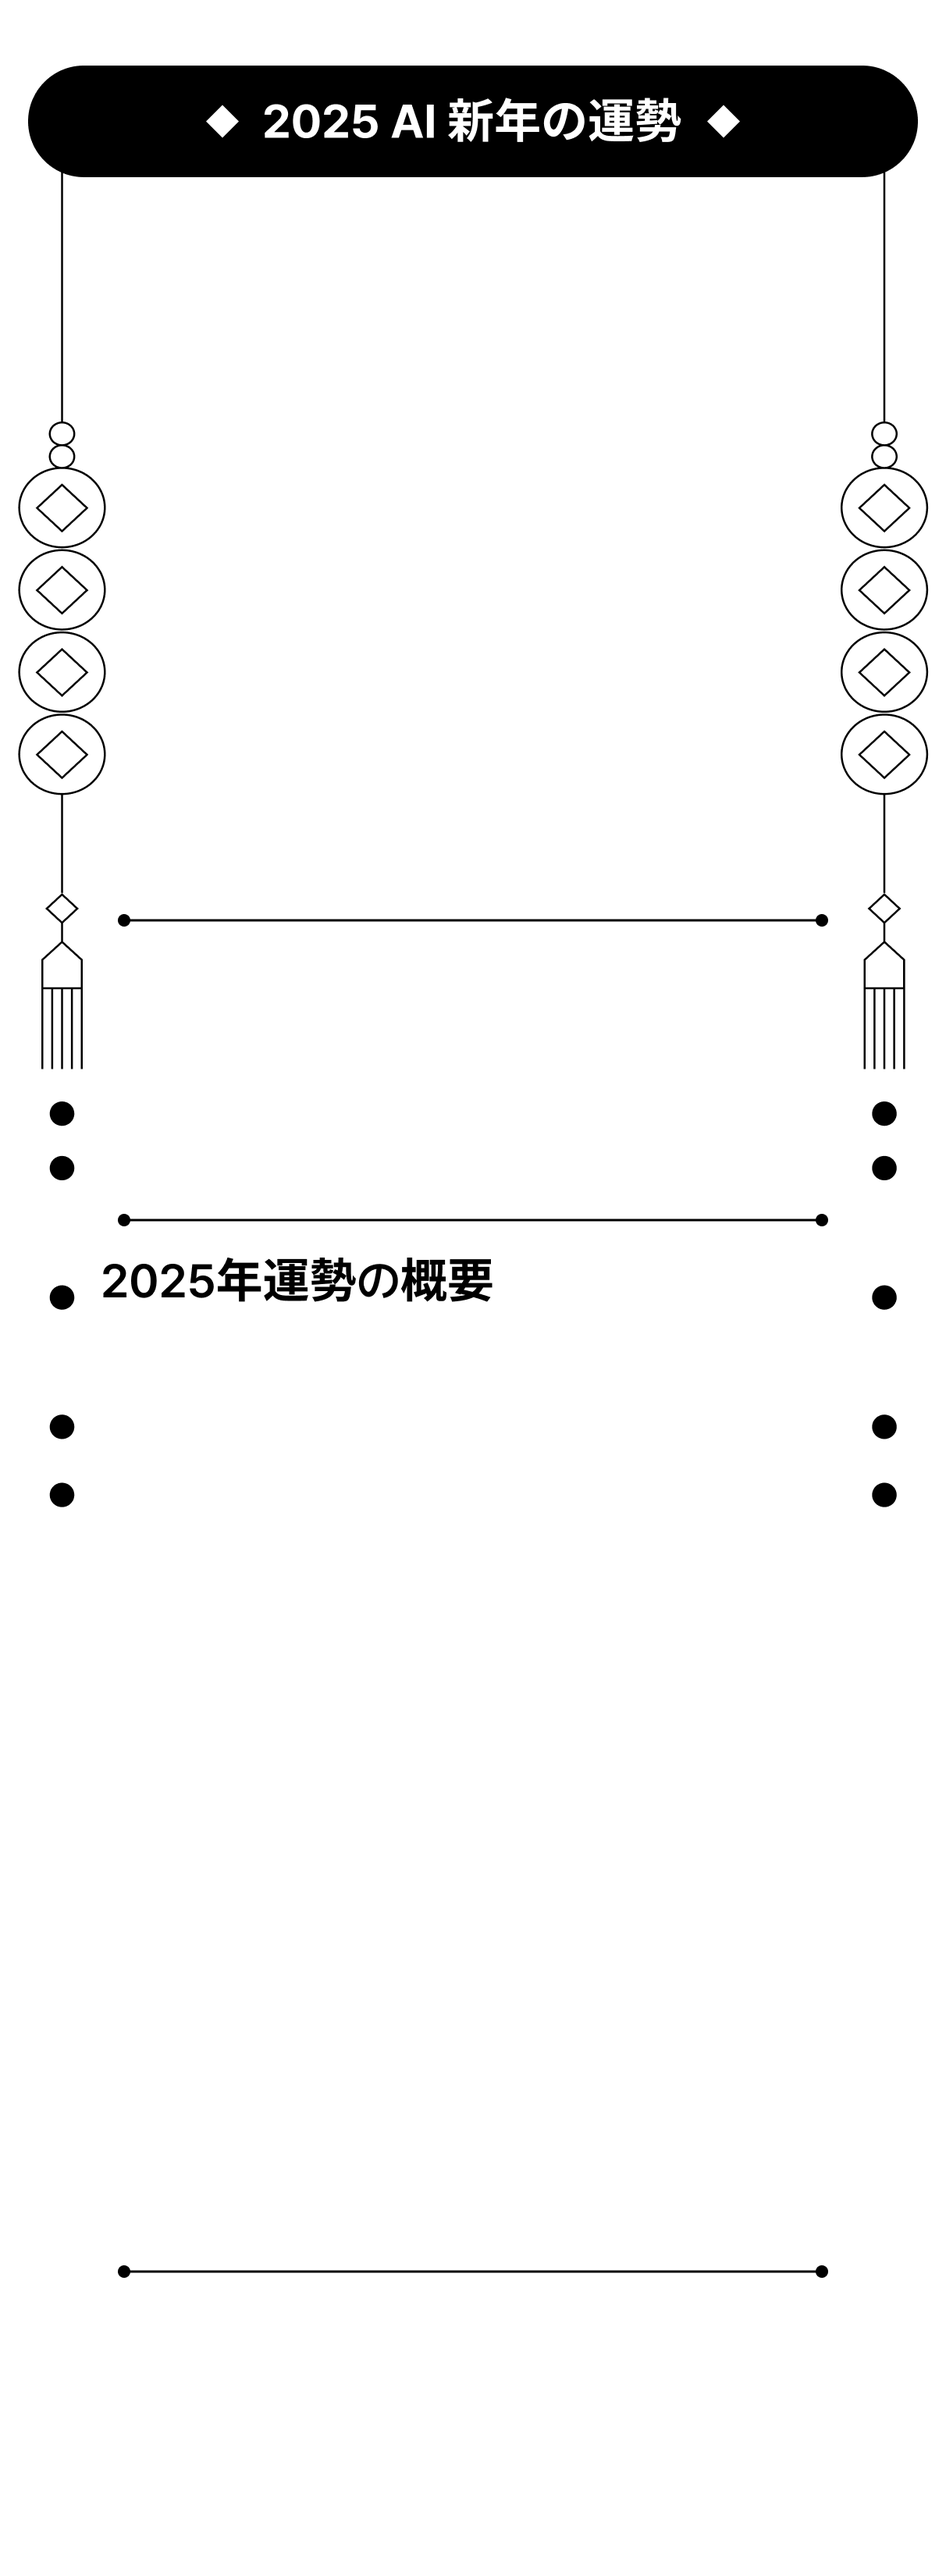
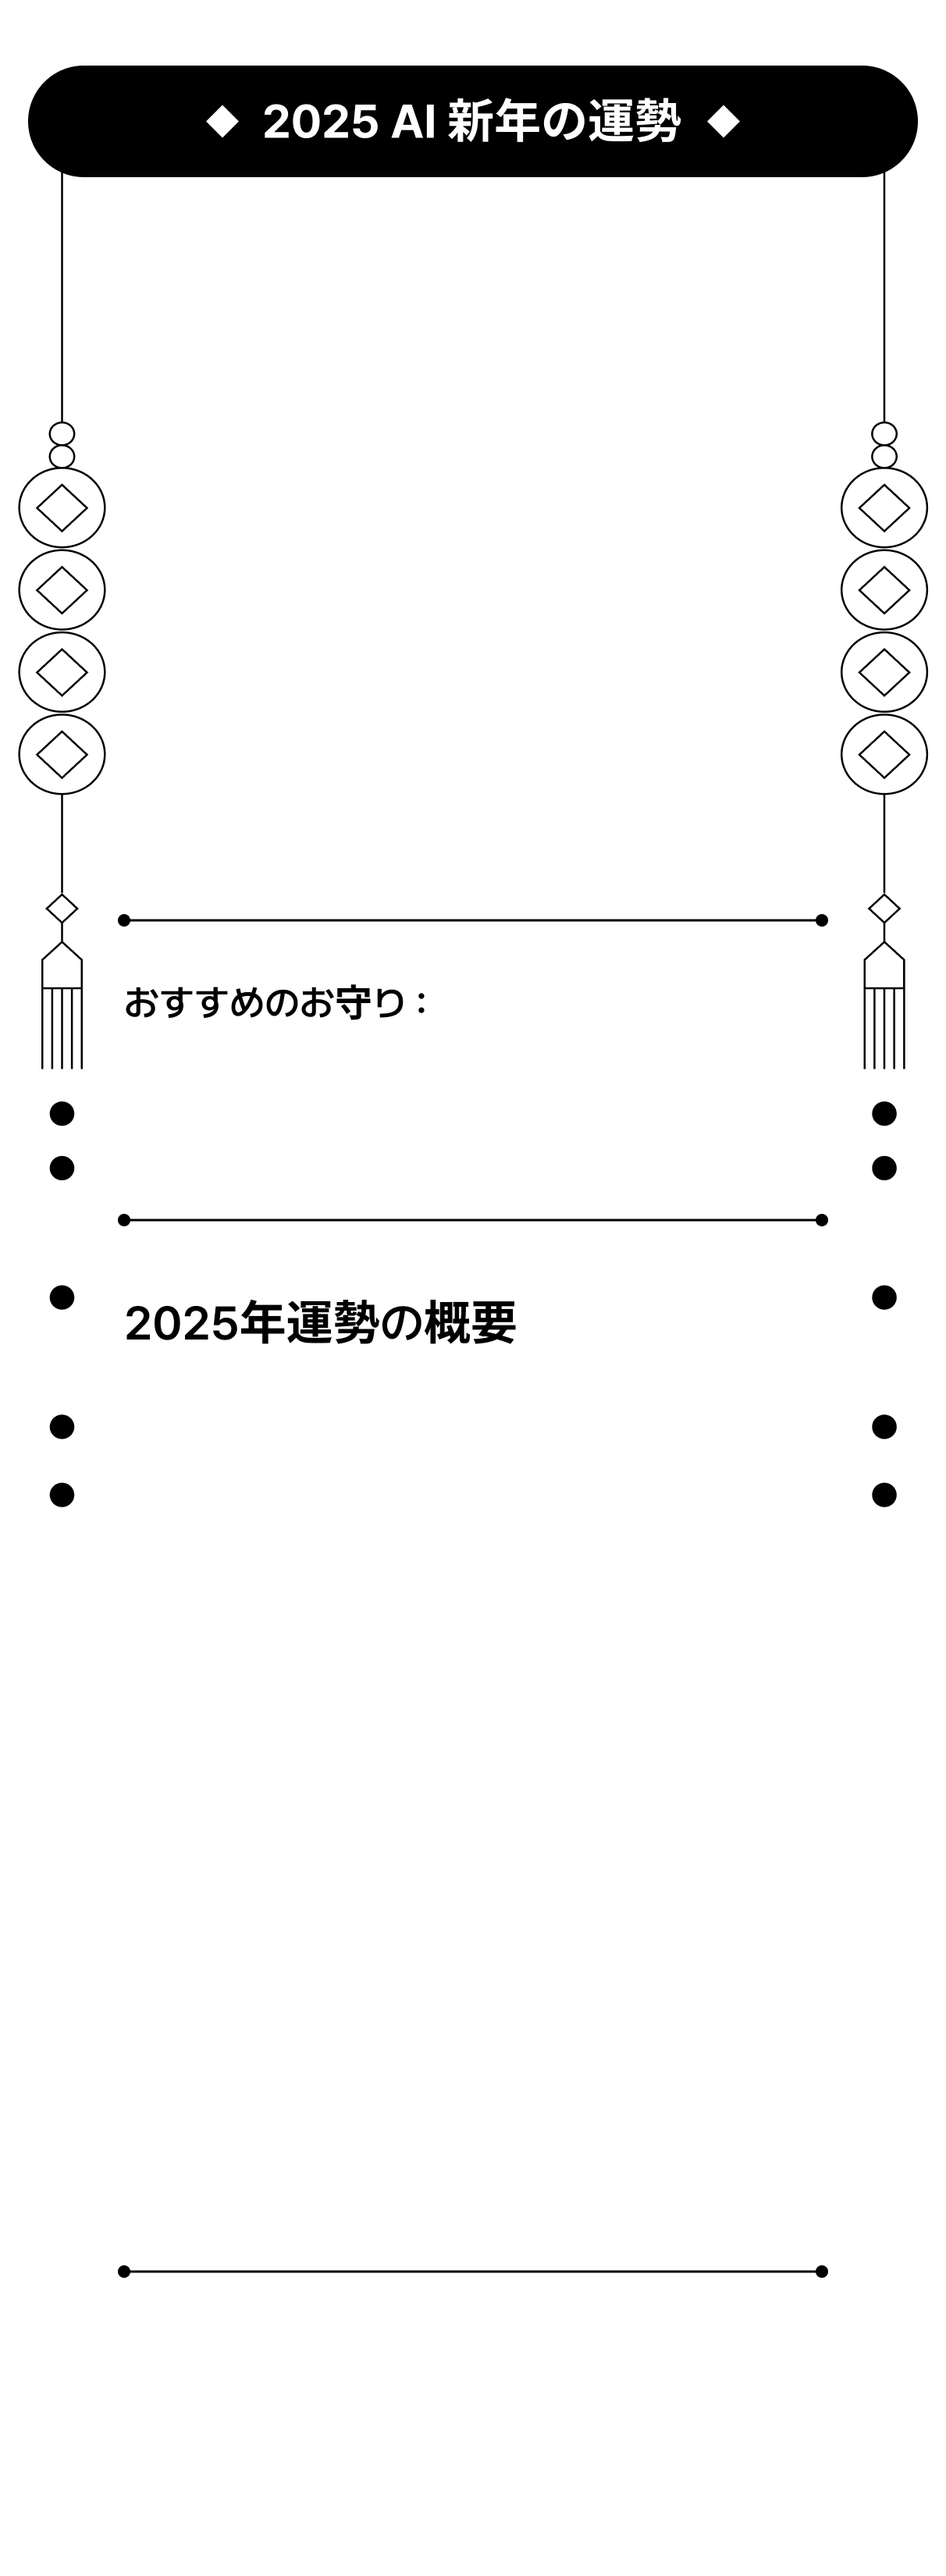
[FEAT]: update features

Changed region(s): [[0.1221, 0.4682, 0.5495, 0.5306], [0.1221, 0.3745, 0.4274, 0.4058]]

diff --git a/src/components/Chat.js b/src/components/Chat.js
@@ -13,46 +13,28 @@ function Chat({ messages, userInfo }) {
     }
   }, [messages]);
 
-  const handlePrint = async () => {
+  const handleDownload = async () => {
     if (fortuneRef.current) {
       try {
-
         // Convert the DOM element to an image with specified width and height
         const imageUrl = await toPng(fortuneRef.current, {
           pixelRatio: 1.45
         });
 
-        // Open the image in a new tab
-        const newWindow = window.open();
-        if (newWindow) {
-          newWindow.document.write(`
-            <html>
-              <head>
-                <style>
-                  body {
-                    margin: 0 auto;
-                  }
-                </style>
-              </head>
-              <body>
-                <img src="${imageUrl}" alt="Fortune Result" />
-              </body>
-            </html>
-          `);
-          newWindow.document.close(); // Ensure the document is fully loaded
+        // Create a link element to trigger the download
+        const link = document.createElement('a');
+        link.href = imageUrl;
+        link.download = 'fortune-result.png'; // Specify the download file name
+        document.body.appendChild(link); // Append the link to the DOM
+        link.click(); // Trigger the download
+        document.body.removeChild(link); // Clean up the DOM
 
-          newWindow.onload = () => {
-            newWindow.focus();
-            newWindow.print();
-            newWindow.close(); // Close the new window after printing
-          };
-
-        }
       } catch (error) {
         console.error('Error converting to image:', error);
       }
     }
   };
+
 
   return (
     <div
@@ -74,7 +56,7 @@ function Chat({ messages, userInfo }) {
           >
             <FortuneMessage userInfo={userInfo} msg={msg} />
             <div className={styles.btnContainer}>
-              <button className={styles.sendBtn} onClick={handlePrint}>인쇄하기</button>
+              <button className={styles.sendBtn} onClick={handleDownload}>画像を保存する</button>
             </div>
           </div>
         ) : (

diff --git a/src/components/FortuneMessage.js b/src/components/FortuneMessage.js
@@ -35,24 +35,22 @@ const FortuneMessage = ({ userInfo, msg, key, ref }) => {
         <div className={styles.infoContainer}>
           <p className={styles.mainText}>{userInfo.name}</p>
           <p className={styles.subText}>{userInfo.birthDate}</p>
-          <p className={styles.subText}>{userInfo.birthTime}</p>
         </div>
         <div className={styles.adviceContainer}>
           <p className={styles.plainText1}>{msg.data.advice}</p>
         </div>
         <div className={styles.amuletContainer}>
-          <p className={styles.subText}>
-            <span>추천 부적: </span>
+          <p className={styles.amuletText}>
             {msg.data.amulet}
           </p>
           <span className={styles.plainText1}>{msg.data.amuletDescription}</span>
         </div>
         <div className={styles.fortuneContainer}>
-          <p className={styles.subText}>2025 운세 요약</p>
-          <p className={styles.plainText1}>총운: {msg.data.total}</p>
-          <p className={styles.plainText1}>재물운: {msg.data.finance}</p>
-          <p className={styles.plainText1}>애정운: {msg.data.love}</p>
-          <p className={styles.plainText1}>건강운: {msg.data.health}</p>
+          <p className={styles.plainText1}>全体運: {msg.data.total}</p>
+          <p className={styles.plainText1}>金運: {msg.data.finance}</p>
+          <p className={styles.plainText1}>恋愛運: {msg.data.love}</p>
+          <p className={styles.plainText1}>健康運: {msg.data.health}</p>
+          <p className={styles.plainText1}>仕事運: {msg.data.work}</p>
         </div>
         <div className={styles.messageContainer}>
           <p className={styles.plainText2}>{msg.data.message}</p>

diff --git a/src/components/Chat.module.css b/src/components/Chat.module.css
@@ -16,6 +16,7 @@
 
 .fortuneContainer {
     height: 315px;
+    margin-top: 40px;
 }
 
 .messageContainer {
@@ -39,12 +40,20 @@
 }
 
 .plainText1 {
-    font-size: 13px;
+    font-size: 12px;
 }
 
 .plainText2 {
     font-size: 13px;
     margin-top: 10px;
+}
+
+.amuletText {
+    font-size: 13px;
+    font-weight: bold;
+    margin: 0;
+    padding-top: 3px;
+    margin-left: 105px
 }
 
 .sendBtn {

diff --git a/src/index.js b/src/index.js
@@ -3,7 +3,7 @@ import ReactDOM from 'react-dom/client';
 import App from './App';
 import './index.css'; // CSS 파일을 가져옵니다.
 
-
+document.title = "2025 sparta fortune teller";
 const root = ReactDOM.createRoot(document.getElementById('root'));
 root.render(
   <React.StrictMode>
